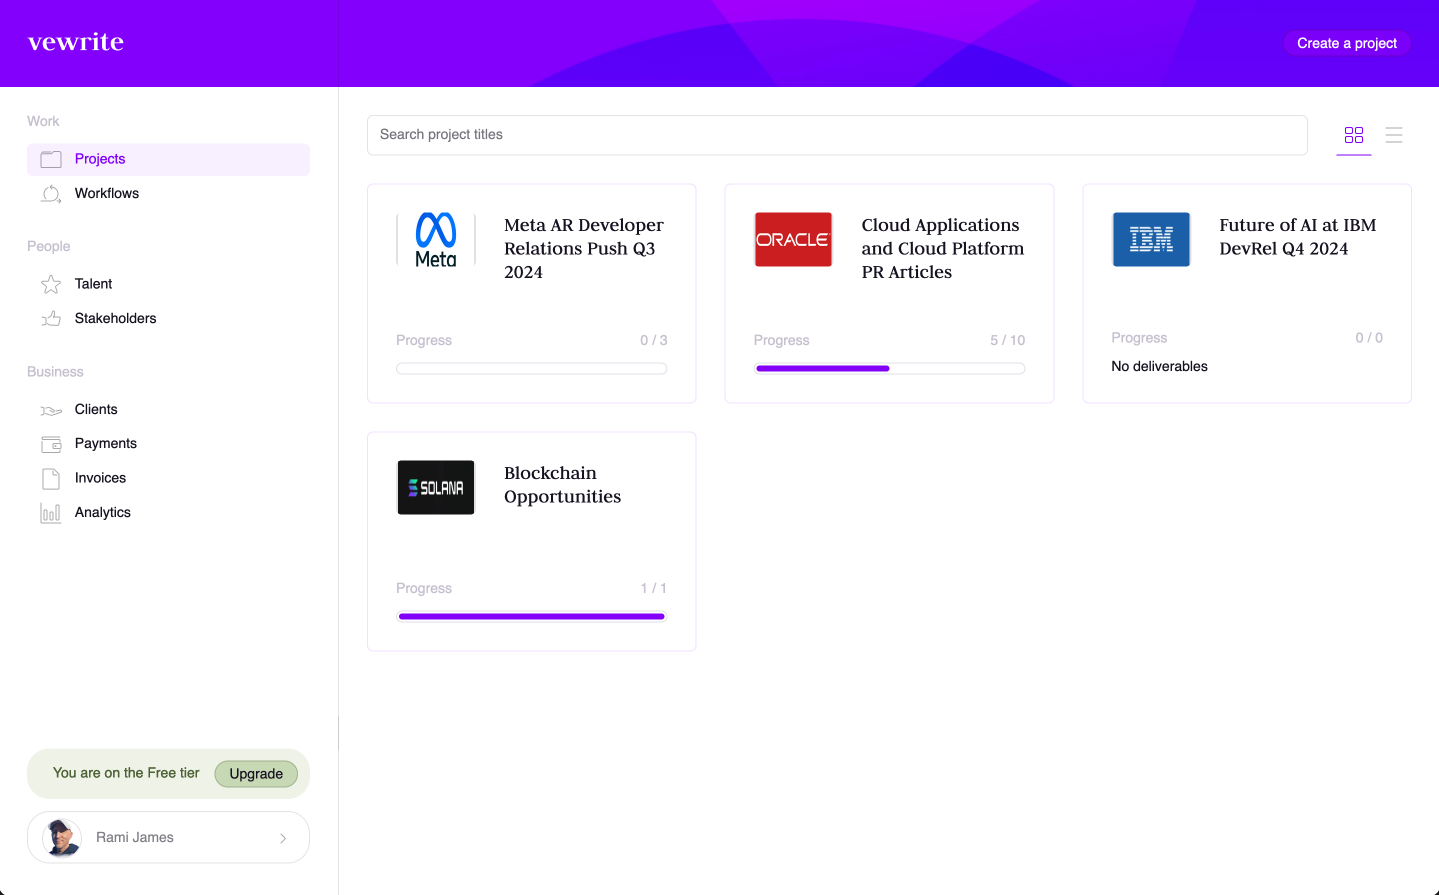
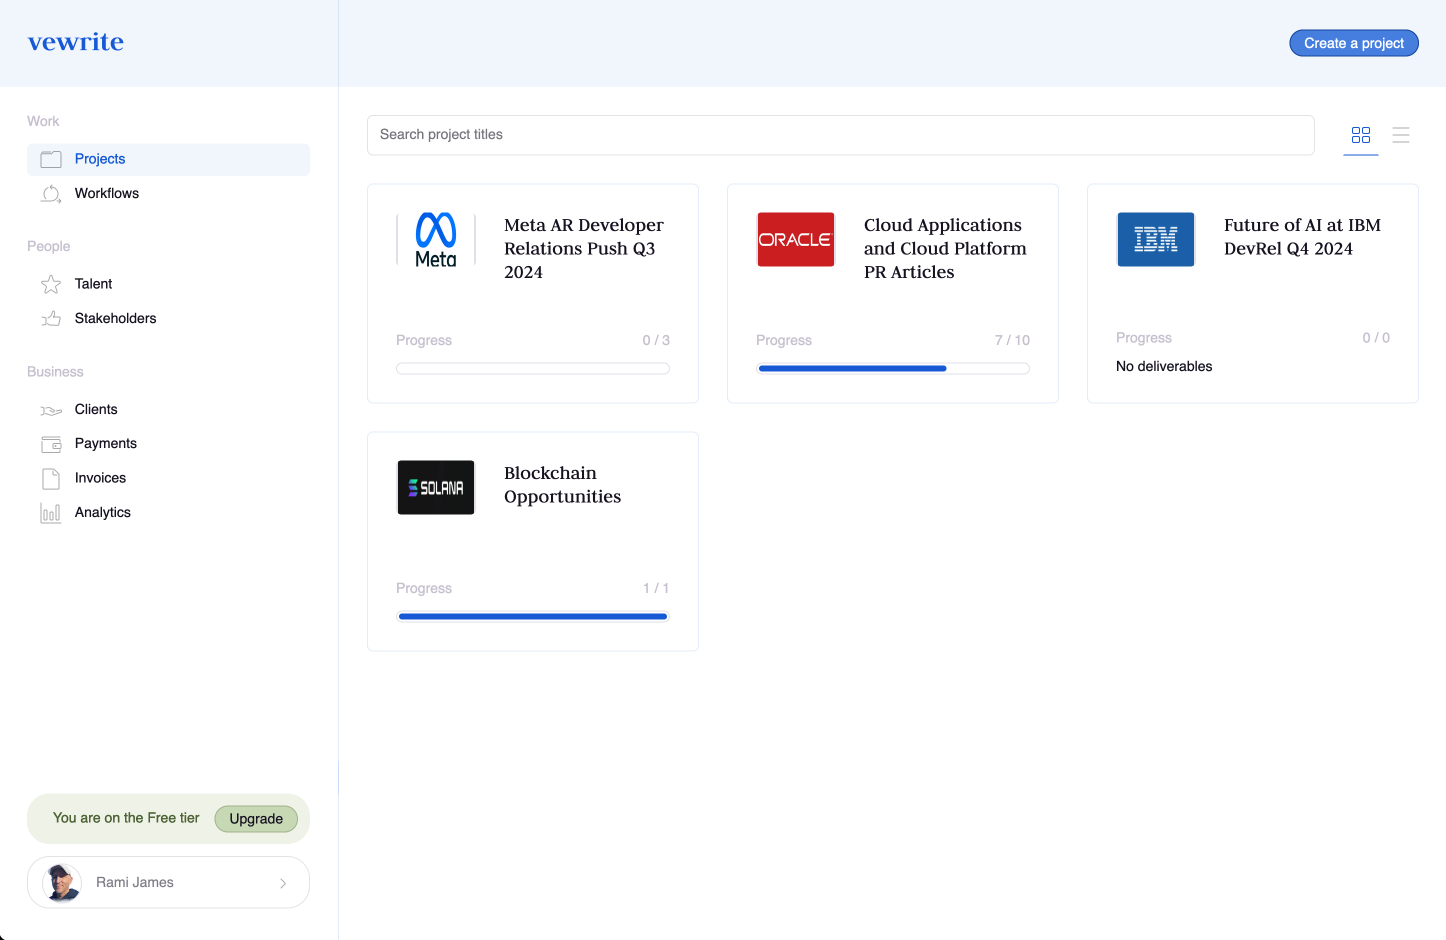
Updating preview image to remove purple

diff --git a/pages/index.vue b/pages/index.vue
@@ -318,7 +318,7 @@ const { joining } = storeToRefs(joinStore);
 @keyframes contentSlideUp {
   0% {
     opacity: 0;
-    transform: translateY(100px);
+    transform: translateY(20px);
   }
   100% {
     opacity: 1;
@@ -508,13 +508,14 @@ const { joining } = storeToRefs(joinStore);
   justify-content: center;
   padding: $spacing-xl $spacing-md;
   opacity: 0;
-  animation: contentSlideUp 1.6s forwards;
+  animation: contentSlideUp .8s forwards;
 
   img {
     width: 100%;
     height: auto;
+    min-height: 480px;
     border-radius: $br-xl;
-    box-shadow: 0px 0px 20px 0px rgba($black, 0.1);
+    box-shadow: 0px 0px 1px 1px rgba($brand, 0.1), 0px 4px 8px 0px rgba($brand, 0.1), 0px 10px 20px 0px rgba($brand, 0.05);
 
     @media (max-width: 1000px) {
       width: 100%;
